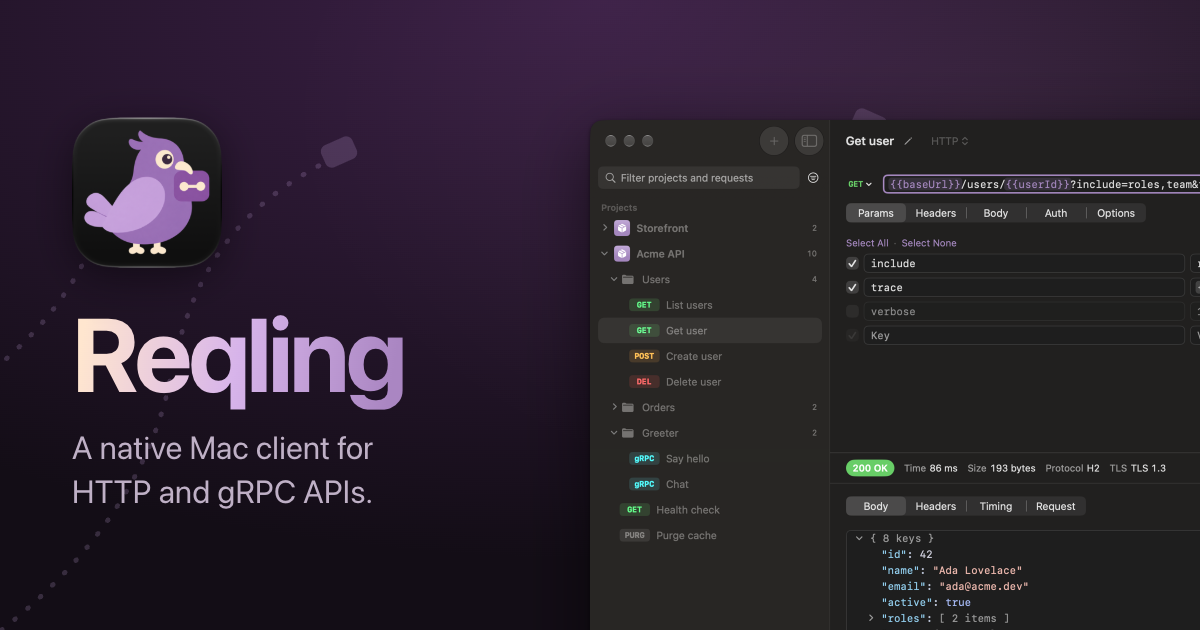
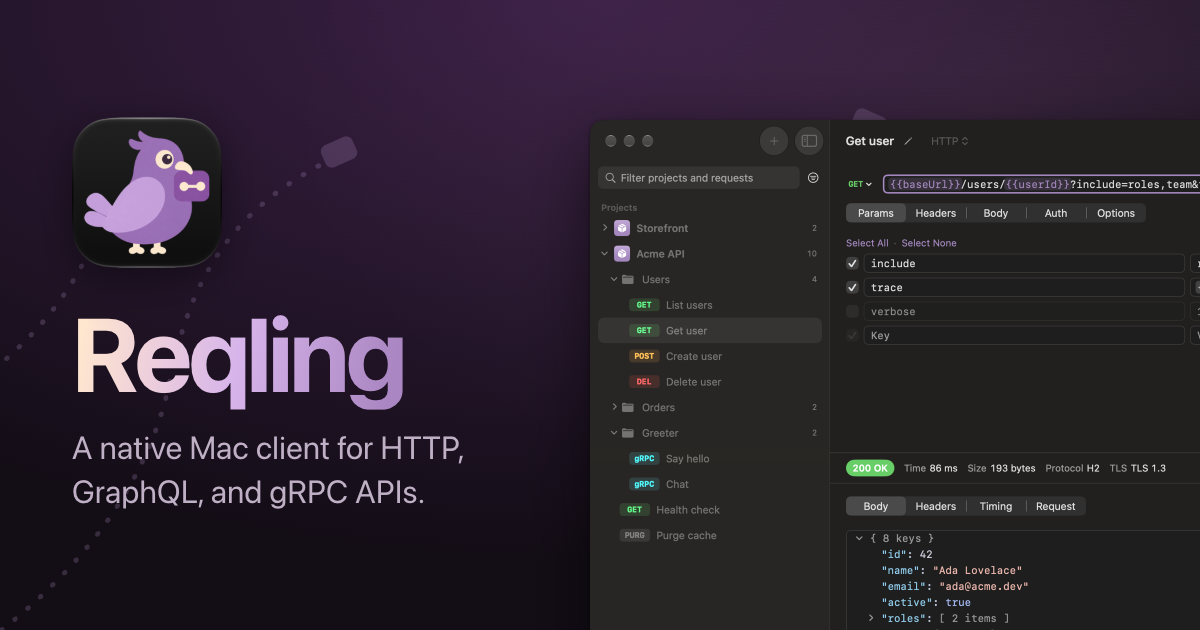
Name GraphQL in the tagline
The page's description, its link preview description, the hero, and the preview image now call Reqling a client for HTTP, GraphQL, and gRPC APIs. The preview is re-rendered with the new tagline.

Changed region(s): [[0.0617, 0.754, 0.3392, 0.8143], [0.3083, 0.6937, 0.4008, 0.7238]]

diff --git a/index.html b/index.html
@@ -6,7 +6,7 @@
     <meta name="viewport" content="width=device-width, initial-scale=1">
     <title>Reqling</title>
     <meta name="description"
-        content="Reqling is a native macOS client for HTTP and gRPC APIs: keep your requests as plain files in your repository, and send them yourself or through your AI agent.">
+        content="Reqling is a native macOS client for HTTP, GraphQL, and gRPC APIs: keep your requests as plain files in your repository, and send them yourself or through your AI agent.">
 
     <meta name="theme-color" content="#fbf7fa" media="(prefers-color-scheme: light)">
     <meta name="theme-color" content="#130d16" media="(prefers-color-scheme: dark)">
@@ -15,7 +15,7 @@
     <meta property="og:type" content="website">
     <meta property="og:url" content="https://reqling.af.codes">
     <meta property="og:description"
-        content="A native macOS client for HTTP and gRPC APIs: keep your requests as plain files in your repository, and send them yourself or through your AI agent.">
+        content="A native macOS client for HTTP, GraphQL, and gRPC APIs: keep your requests as plain files in your repository, and send them yourself or through your AI agent.">
     <!-- Rendered from og-image/ on the dark theme; re-render it whenever the
          name, tagline, dark colors, flight paths, icon or the dark request
          screenshot change (AGENTS.md). -->
@@ -89,7 +89,7 @@
 
             <h1>Reqling</h1>
             <p class="tagline">
-                A small, native Mac client for HTTP and gRPC APIs. Keep your requests in your repository, and send
+                A small, native Mac client for HTTP, GraphQL, and gRPC APIs. Keep your requests in your repository, and send
                 them yourself or through your AI agent.
             </p>
 

diff --git a/og-image/og-image.html b/og-image/og-image.html
@@ -102,7 +102,7 @@
                 <img src="../images/app-icon-dark.png" alt="" width="256" height="256">
             </picture>
             <h1>Reqling</h1>
-            <p class="tagline">A native Mac client for HTTP and gRPC APIs.</p>
+            <p class="tagline">A native Mac client for HTTP, GraphQL, and gRPC APIs.</p>
         </div>
 
         <div class="hero-media">
